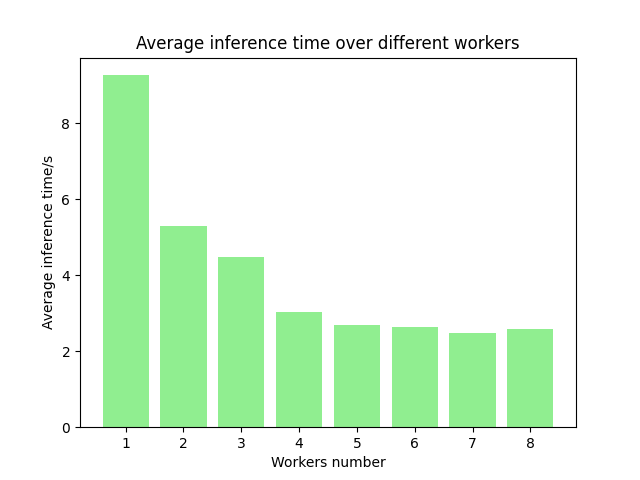
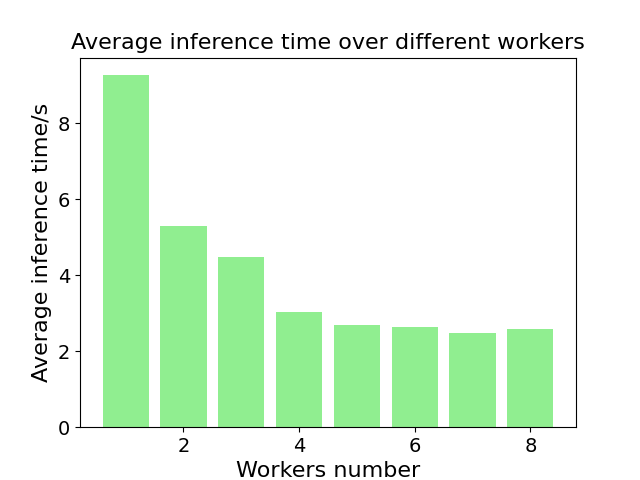
update for clearity

diff --git a/result_for_docker_sim/pipeline_different_workers.py b/result_for_docker_sim/pipeline_different_workers.py
@@ -8,9 +8,10 @@ average_inference = [9.26, 5.28, 4.48, 3.04, 2.68, 2.64, 2.48, 2.58]
 plt.bar(workers_num, average_inference, color='lightgreen')
 
 # 添加标题和标签
-plt.title('Average inference time over different workers')
-plt.xlabel('Workers number')
-plt.ylabel('Average inference time/s')
+plt.title('Average inference time over different workers', fontsize=16)
+plt.xlabel('Workers number', fontsize=16)
+plt.ylabel('Average inference time/s', fontsize=16)
+plt.tick_params(axis='both', labelsize=14)
 
 # 显示图形
 plt.savefig('pipeline_different_workers.png')
